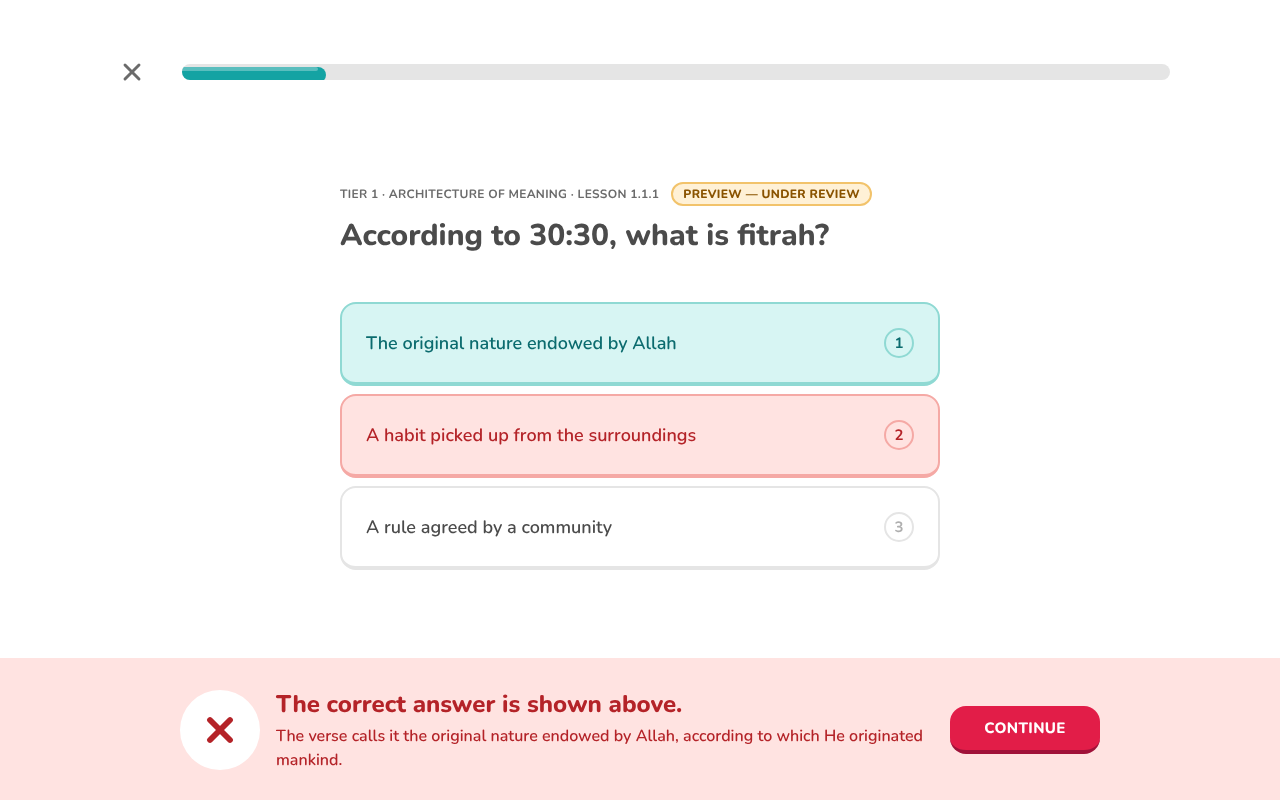
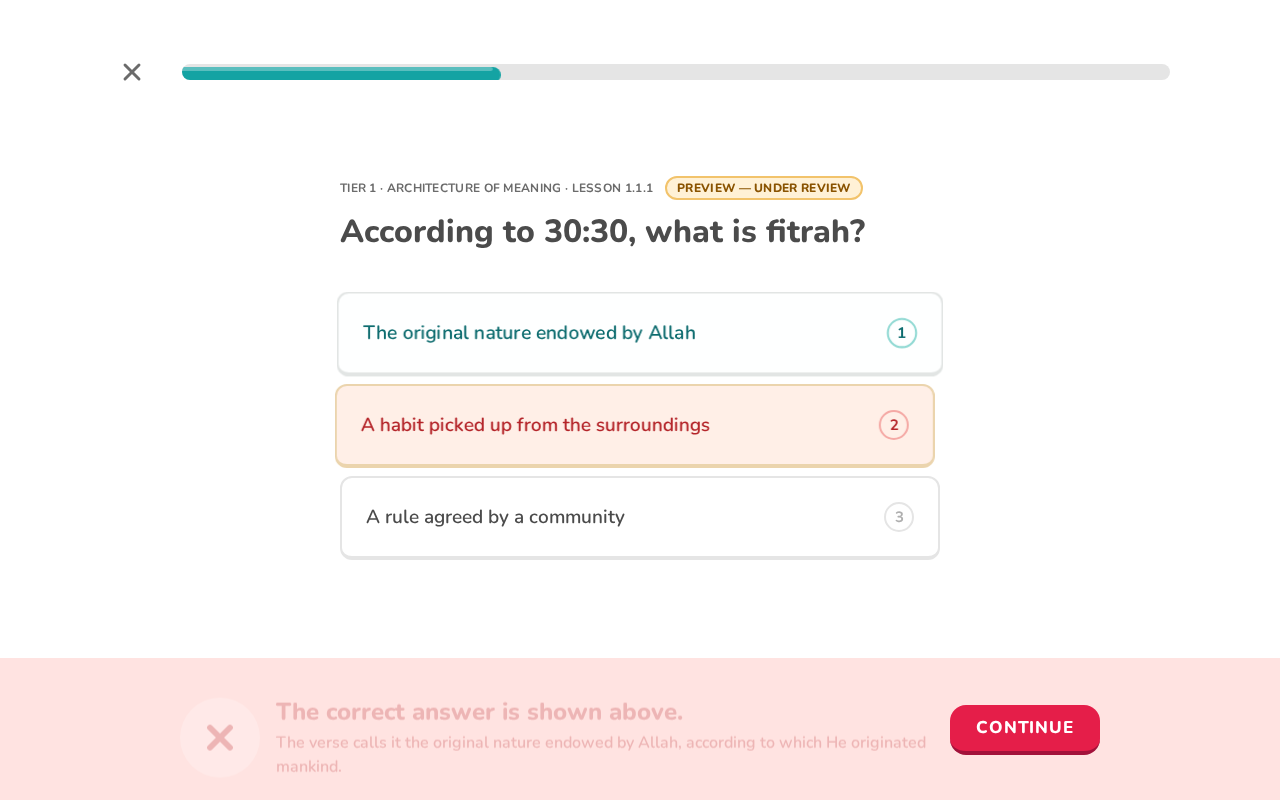
chore(verify): fix slide-up contrast, capture rebuilt screenshots, and update PROGRESS/DECISIONS

diff --git a/app/globals.css b/app/globals.css
@@ -108,11 +108,9 @@ body,
 
 @keyframes duo-slide-up {
   from {
-    opacity: 0;
-    transform: translateY(10px);
+    transform: translateY(8px);
   }
   to {
-    opacity: 1;
     transform: translateY(0);
   }
 }

diff --git a/DECISIONS.md b/DECISIONS.md
@@ -98,3 +98,11 @@ All from the "Initial import from sanidhyy/duolingo-clone" commit. Mapped colour
 37. **Bug found and fixed:** unit colour classes live in `lib/unit-theme.ts`, but Tailwind only scanned `app/` and `components/`, so every unit banner rendered white text on white. All tests had passed, because none checked a computed colour. `lib/` is now scanned, and a regression test checks every banner has a colour and 4.5:1 text.
 38. **Active sidebar item** text moved from brand teal to the deeper teal ink: axe measured 4.44:1 on the pale fill.
 39. **Al-Islam.org is still unreachable** in this session: the WebFetch route still fails with `getaddrinfo ENOTFOUND al-islam.org`. Content is unchanged.
+
+## `clone-website` extraction pass
+
+40. **Skill installed locally:** Copied `JCodesMore/ai-website-cloner-template`'s `clone-website` skill (`SKILL.md`, `references/`, `LICENSE`) into `.agents/skills/clone-website/` and `.claude/skills/clone-website/`, audited as markdown-only, and updated `CLAUDE.md` rule 4 + `AGENTS.md`.
+41. **Measured Duolingo extraction:** Inspected `https://www.duolingo.com` public landing, guest lesson (`/lesson`), and exit-lesson modal via headless Chromium at `1280px` and `360px` (`docs/research/duolingo/BRIEF.md`). Applied exact measurements: `50px` primary/CTA button height, `0.8px` uppercase tracking, `12px` answer card radius with `24px` desktop padding and `19px` option text, `32px/40px` lesson heading, `140px` feedback bar with `24px/30px` verdict and `17px` Continue CTA, and `400px` / `20px`-radius modals.
+42. **Brand fidelity (Rule 4):** Kept The Roadmap's own brand palette (`DESIGN.md` teal, sand, unit colours), Nunito font, original icons, and zero sound effects (removed the temporary Web Audio sounds and green/sky palette from earlier commit `93b166d`).
+43. **Logged-in `/learn` boundary:** `https://www.duolingo.com/learn` redirects unauthenticated guests back to onboarding; `/learn` retains the existing ported geometry plus the new `DailyQuests` rail card and `MobileBottomNav` tab bar until a signed-in capture is provided.
+

diff --git a/PROGRESS.md b/PROGRESS.md
@@ -1,6 +1,6 @@
 # Progress
 
-**Phase:** rework done, then a Duolingo-style pass (DECISIONS 31–39). **Status:** UI ported and restyled, all gates green; Al-Islam.org content still blocked (see REWORK_REPORT.md, MANUAL_FETCH.md).
+**Phase:** `clone-website` skill installed and Duolingo measurement pass applied (DECISIONS 40–43). **Status:** Lesson, modal, button, and mobile-nav geometry aligned to extracted Duolingo metrics while keeping Roadmap brand tokens; Al-Islam.org content still blocked (see REWORK_REPORT.md, MANUAL_FETCH.md).
 
 | Phase | Status |
 |---|---|
